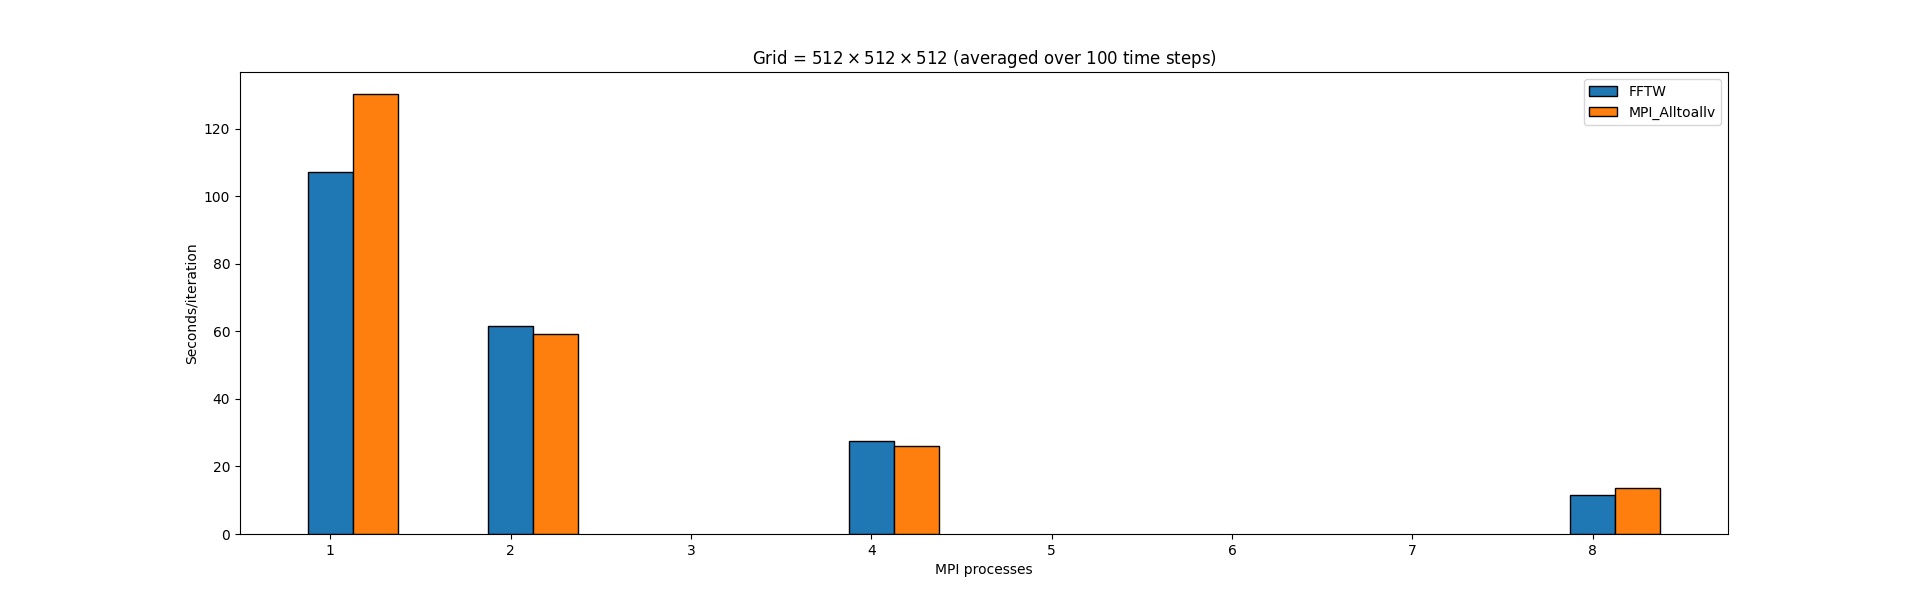
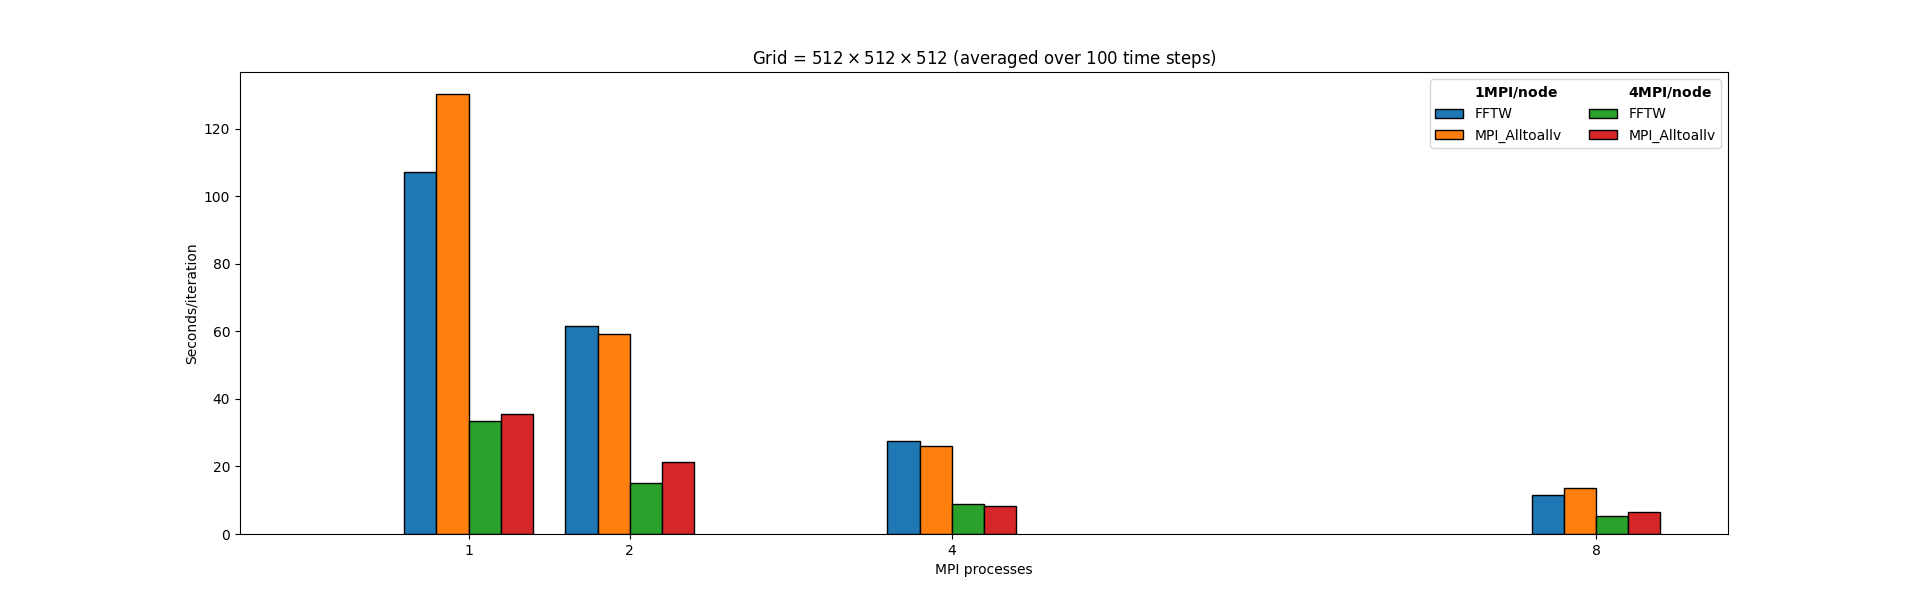
update imgs and plot file

diff --git a/fft3d/data_analysis/plot_times.py b/fft3d/data_analysis/plot_times.py
@@ -3,9 +3,15 @@ import numpy as np
 import matplotlib.pyplot as plt
 from string import Template
 
-dirs = ("diffusion_fft", "fft")
-file_patterns = (Template("fftw_${n}.out"), Template("my2_${n}.out"))
+dirs = ("diffusion_fft", "fft", "4/diffusion_fft", "4/fft")
+file_patterns = (
+    Template("fftw_${n}.out"),
+    Template("my2_${n}.out"),
+    Template("fftw_${n}.out"),
+    Template("my2_${n}.out"),
+)
 procs = np.array((1, 2, 4, 8))
+labels = ["FFTW", "MPI_Alltoallv"]
 
 data = {dir: {} for dir in dirs}
 for dir, file_pattern in zip(dirs, file_patterns):
@@ -25,16 +31,50 @@ def as_list(dc):
 
 plt.figure(figsize=(20, 6))
 
-width = 0.25
-plt.bar(procs, as_list(data["diffusion_fft"]), width, edgecolor="k", label="FFTW")
-plt.bar(
-    procs + width, as_list(data["fft"]), width, edgecolor="k", label="MPI_Alltoallv"
+width = 0.2
+
+dfft1 = plt.bar(
+    procs - width * 3 / 2,
+    as_list(data["diffusion_fft"]),
+    width,
+    edgecolor="k",
+    label="FFTW",
 )
+fft1 = plt.bar(
+    procs - width / 2,
+    as_list(data["fft"]),
+    width,
+    edgecolor="k",
+    label="FFTW",
+)
+dfft4 = plt.bar(
+    procs + width / 2,
+    as_list(data["4/diffusion_fft"]),
+    width,
+    edgecolor="k",
+    label="FFTW",
+)
+fft4 = plt.bar(
+    procs + width * 3 / 2,
+    as_list(data["4/fft"]),
+    width,
+    edgecolor="k",
+    label="MPI_Alltoallv",
+)
+
+(dummy1,) = plt.plot([0], marker="None", linestyle="None", label="dummy-tophead")
+(dummy4,) = plt.plot([0], marker="None", linestyle="None", label="dummy-empty")
 
 plt.ylabel("Seconds/iteration")
 plt.xlabel("MPI processes")
 
+plt.xticks([1, 2, 4, 8], [1, 2, 4, 8])
+
 plt.title("Grid = $512 \\times 512 \\times 512$ (averaged over 100 time steps)")
-plt.legend()
+plt.legend(
+    [dummy1, dfft1, fft1, dummy4, dfft4, fft4],
+    [r"$\bf{1 MPI/node}$"] + labels + [r"$\bf{4 MPI/node}$"] + labels,
+    ncol=2,
+)
 
 plt.show()
